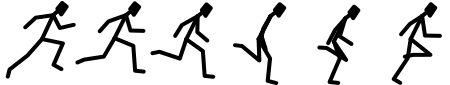
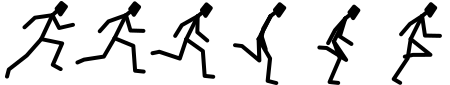
Added runner animation.
Also fixed a tiny pixel glitch in the runner image.

Changed region(s): [[0.0, 0.0, 0.1867, 0.9176]]

diff --git a/src/fullmoon.js b/src/fullmoon.js
@@ -32,6 +32,10 @@
     const TREE_HEIGHT = 200;
     const TREE_MAX_SCALE = 1;
 
+    // The size, in pixels, of people.
+    const HUMAN_WIDTH = 75;
+    const HUMAN_HEIGHT = 85;
+
     // The game duration, in minutes.
     const GAME_DUR = 1;
 
@@ -161,6 +165,9 @@
             this.load.spritesheet("trees", "./assets/trees.png",
                                   {frameWidth: TREE_WIDTH,
                                    frameHeight: TREE_HEIGHT});
+            this.load.spritesheet("runner", "./assets/runner.png",
+                                  {frameWidth: HUMAN_WIDTH,
+                                  frameHeight: HUMAN_HEIGHT});
         },
 
         create: function () {
@@ -171,6 +178,14 @@
             controls = this.input.keyboard.createCursorKeys();
 
             this.startGame();
+
+            this.anims.create({
+                key: "runRight",
+                frameRate: 16,
+                frames: this.anims.generateFrameNumbers("runner", {start: 0,
+                                                                   end: 6}),
+                repeat: -1
+            });
         },
 
         update: function (time, delta) {
